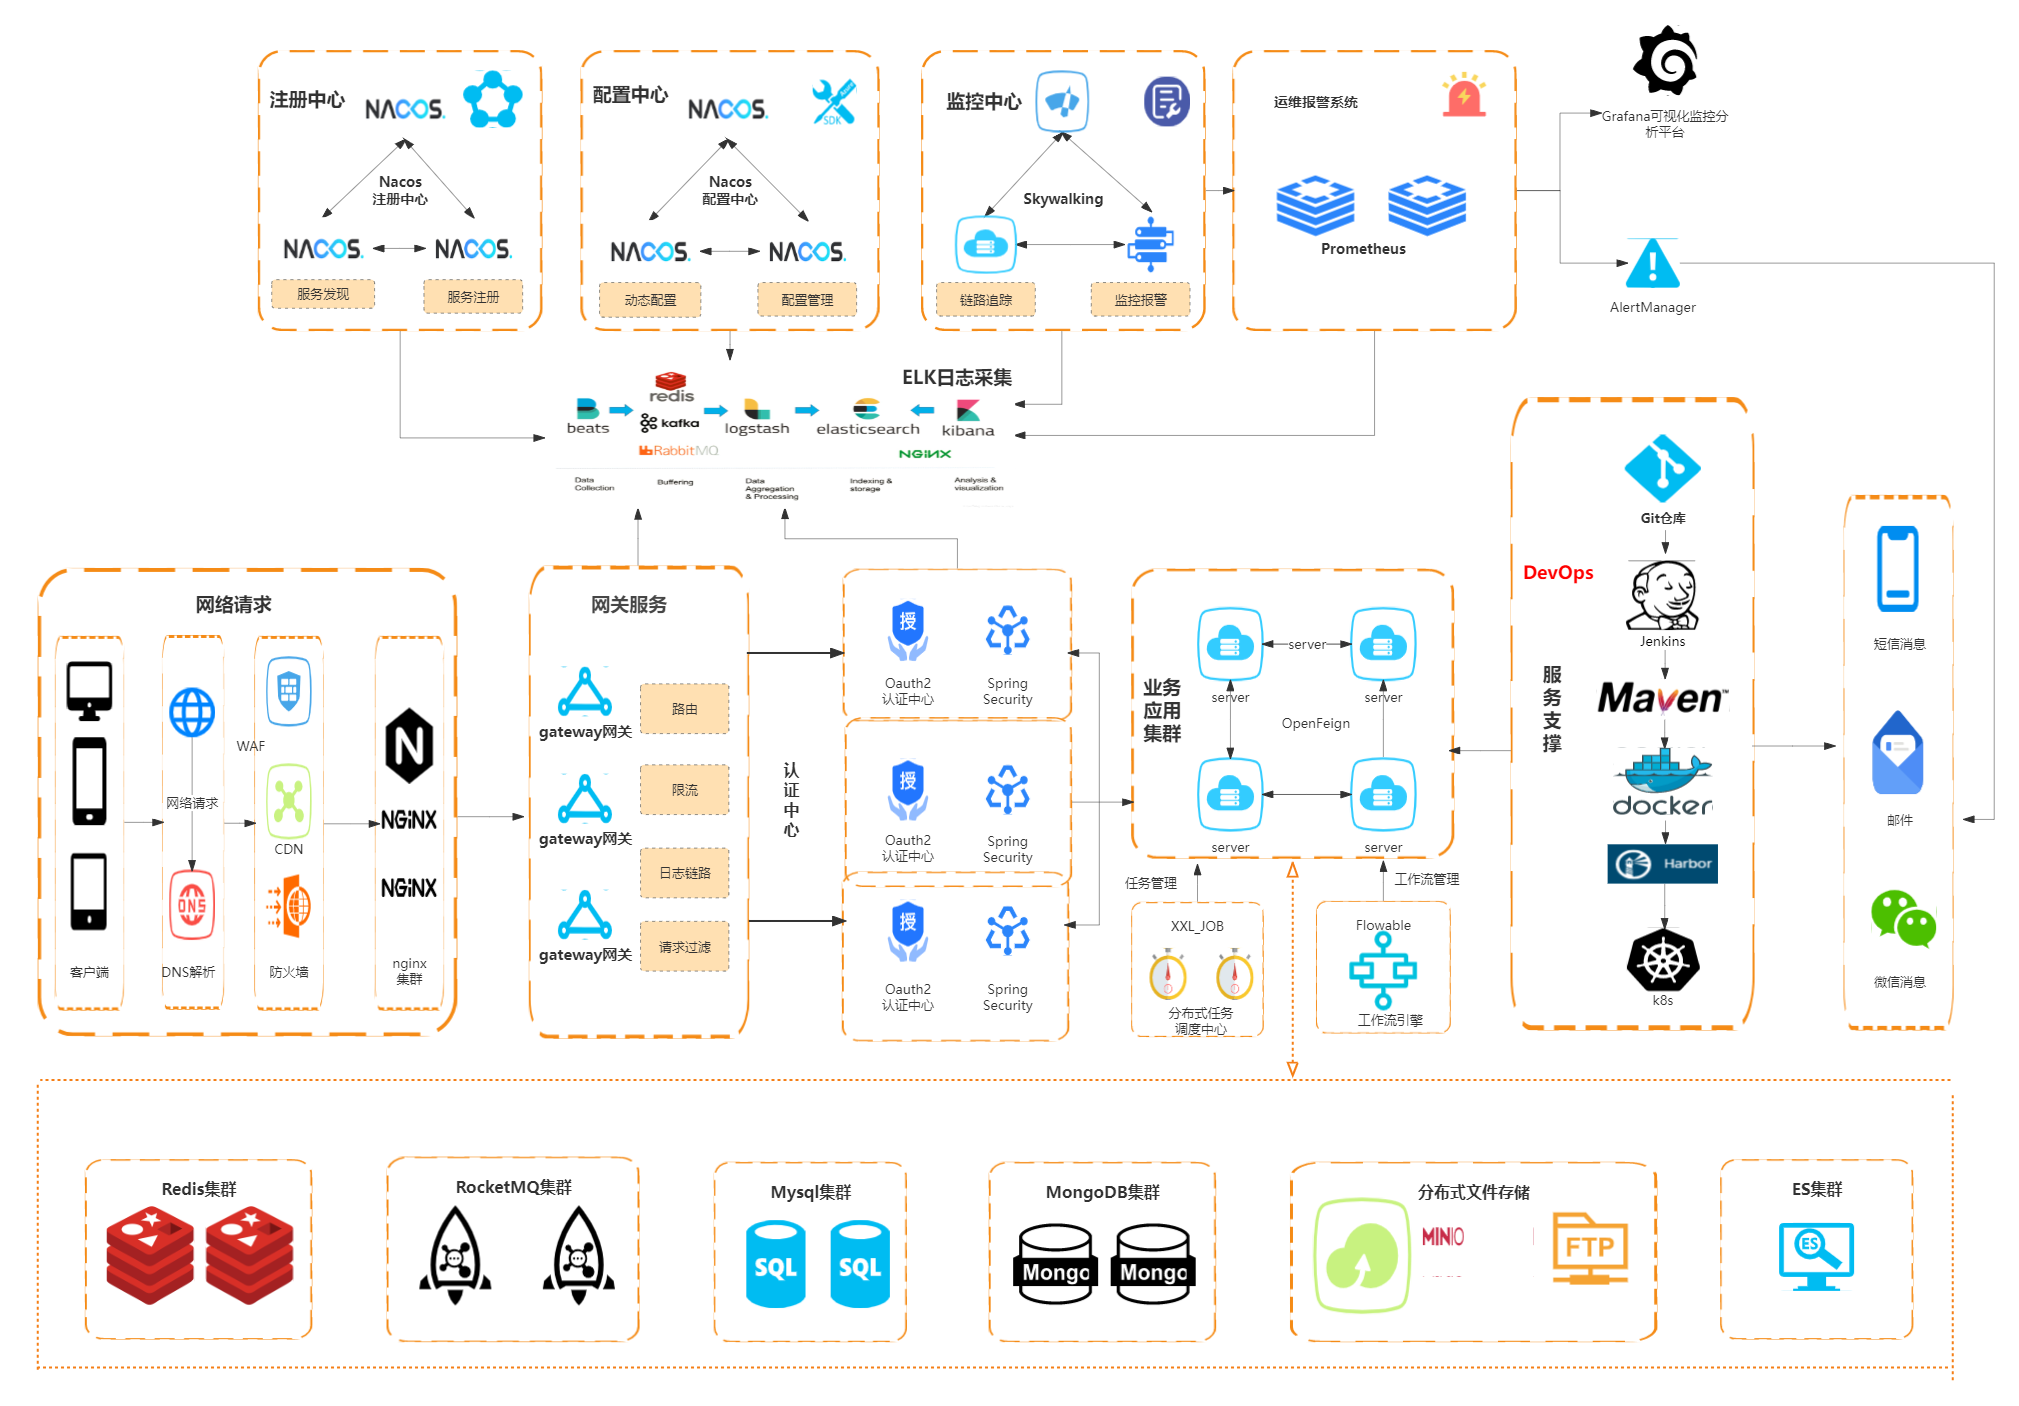
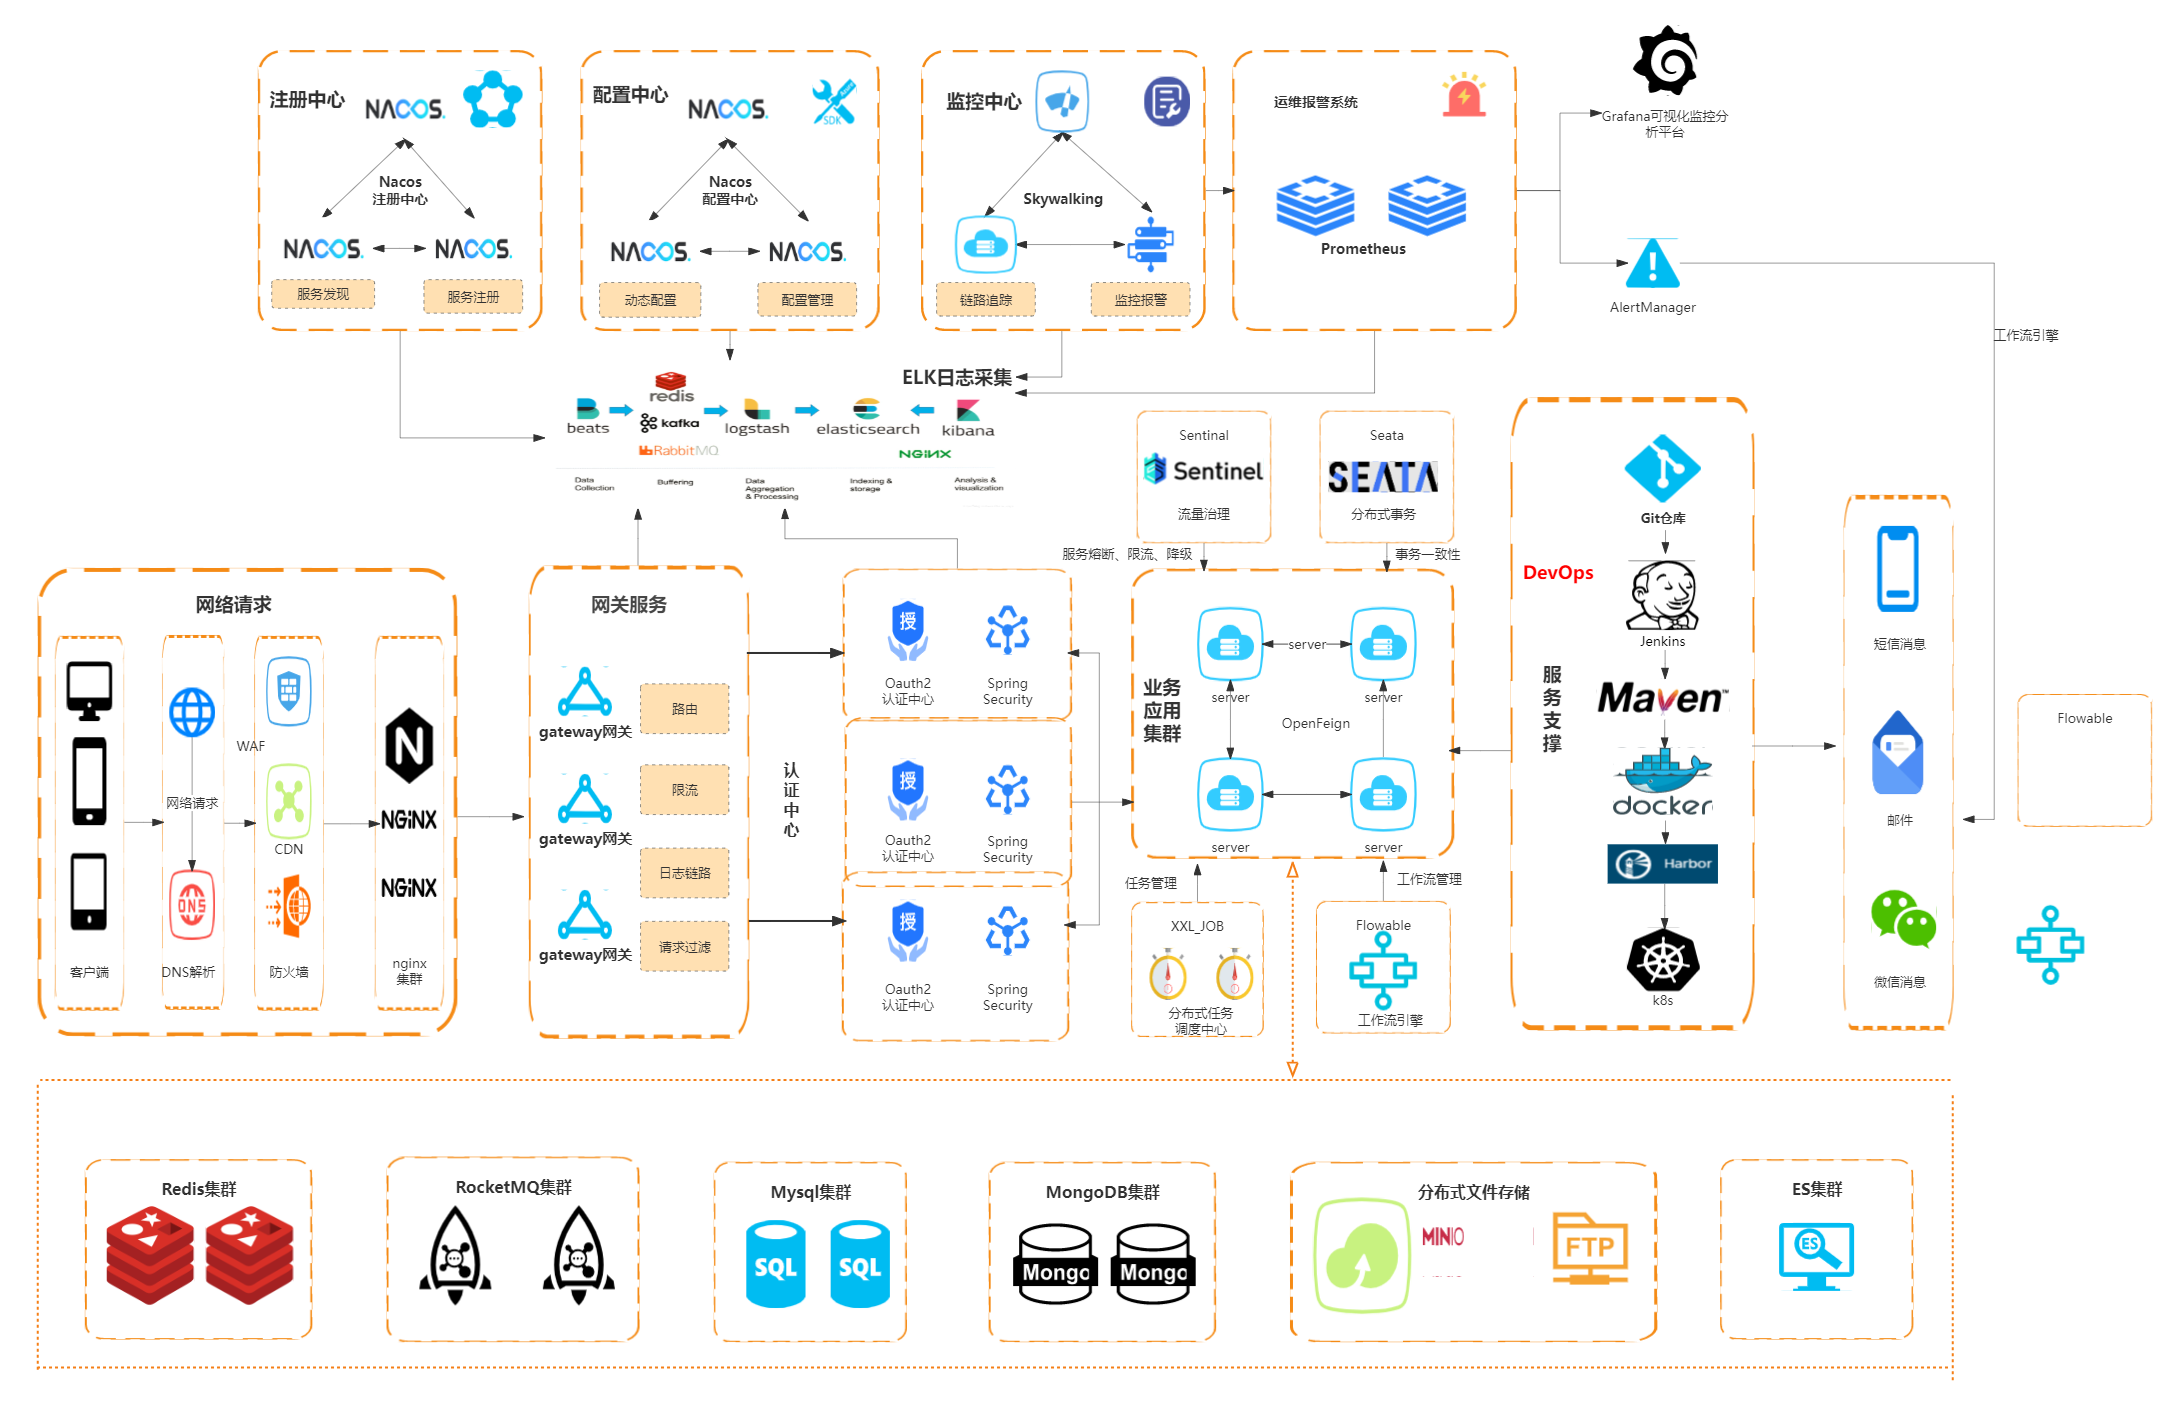
perf: gateway集成sentinel,修改架构图

diff --git a/README.md b/README.md
@@ -59,16 +59,17 @@ KCloud-Platform-Alibaba（老寇云平台）是一款企业级微服务架构的
 #### 相关技术
 
 - API 网关：Spring Cloud Gateway
-- 服务注册&发现：Spring Cloud Alibaba Nacos
+- 配置中心：Nacos
+- 服务注册&发现：Nacos
 - 认证授权：Spring Security OAuth2 Authorization Server
 - 服务消费：Spring Cloud OpenFeign & HttpClient & WebClient
 - 负载均衡：Spring Cloud Loadbalancer
-- 服务熔断&降级&限流：Spring Cloud Alibaba Sentinel
+- 服务熔断&降级&限流：Sentinel
+- 分布式事务：Seata
 - 服务监控：Spring Boot Admin & Prometheus
-- 配置中心：Spring Cloud Alibaba Nacos
 - 消息队列：RocketMQ & Kafka
 - 日志分析：EFK
-- 数据缓存：Caffeine + Redis
+- 数据缓存：Caffeine & Redis
 - 统计报表：MongoDB
 - 对象存储：Amazon S3
 - 服务部署：Docker
